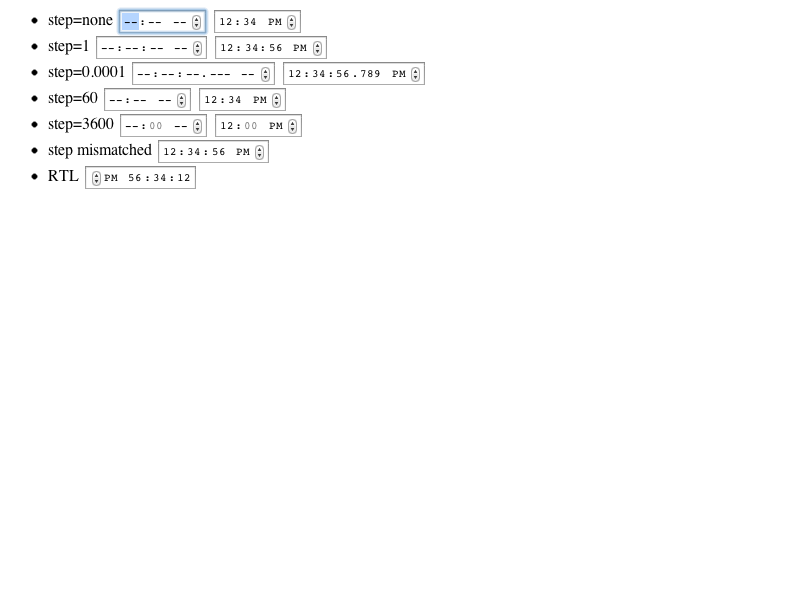
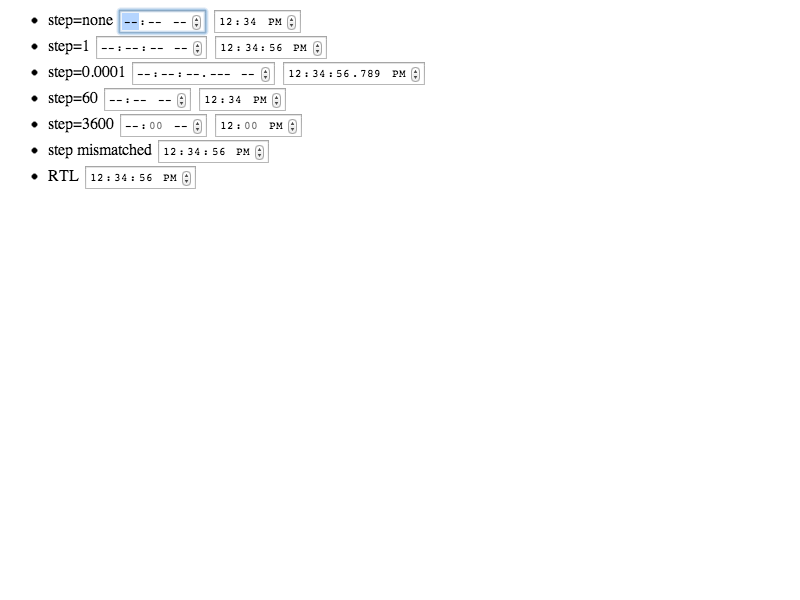
Input elements with multiple fields UI should set appropriate direction for browser locale automatically https://bugs.webkit.org/show_bug.cgi?id=99291
Reviewed by Hajime Morita.

Source/WebCore:

Input elemnts with multiple fields UI ignores HTML dir attribute or CSS
direction property, and their direction should be decided by the browser
locale. If the browser locale is a RTL language, date/time input fields
show formats/digits for the RTL language. The layout should be always
RTL regardless of the direction in such case.

Test: fast/forms/date-multiple-fields/date-multiple-fields-appearance-l10n.html

* html/BaseMultipleFieldsDateAndTimeInputType.cpp:
(WebCore::BaseMultipleFieldsDateAndTimeInputType::updateInnerTextValue):
Set approriate dir attribute value to the child element of the UA shadow root.

LayoutTests:

* fast/forms/date-multiple-fields/date-multiple-fields-appearance-l10n.html:
Added. We can confirm ar-eg and he-il have RTL layout.
* fast/forms/date-multiple-fields/date-multiple-fields-appearance-l10n-expected.txt: Added.
* platform/chromium-mac/fast/forms/date-multiple-fields/date-multiple-fields-appearance-l10n-expected.png: Added.

* fast/forms/date-multiple-fields/date-multiple-fields-keyboard-events-expected.txt:
* fast/forms/date-multiple-fields/date-multiple-fields-keyboard-events.html:
- Enable the lang-attribute-aware-form-control-UI feature.
- Set lang=he-il instead of dir=rtl because dir=rtl is ignored.
* fast/forms/month-multiple-fields/month-multiple-fields-keyboard-events.html: Ditto.
* fast/forms/time-multiple-fields/time-multiple-fields-keyboard-events.html: Ditto.
[…]

diff --git a/LayoutTests/fast/forms/date-multiple-fields/date-multiple-fields-keyboard-events.html b/LayoutTests/fast/forms/date-multiple-fields/date-multiple-fields-keyboard-events.html
@@ -22,6 +22,8 @@ Test following keys:
 <div id="console"></div>
 <script>
 description('Multiple fields UI of month input type with keyboard events');
+if (window.internals)
+    internals.settings.setLangAttributeAwareFormControlUIEnabled(true);
 var input = document.getElementById('input');
 
 function keyDown(key, modifiers)
@@ -187,16 +189,20 @@ keyDown('rightArrow'); // -> 12/[01]/2012
 keyDown('2'); //          -> 12/[02]/2012
 shouldBeEqualToString('input.value', '2012-12-02');
 
+// The tests in the following block fail on platforms without the
+// lang-attribute-aware-form-control-UI feature.
+input.setAttribute("lang", "he-il");
 beginTest('RTL Left/Right keys', '2012-09-28');
-input.setAttribute("dir", "rtl"); // -> 2012/28/[09]
-keyDown('1'); //          -> 2012/28/[01]
-shouldBeEqualToString('input.value', '2012-01-28');
-keyDown('leftArrow'); //  -> 2012/[28]/01
-keyDown('2'); //          -> 2012/[02]/01
-shouldBeEqualToString('input.value', '2012-01-02');
-keyDown('rightArrow'); // -> 2012/02/[01]
-keyDown('3'); //          -> 2012/02/[03]
-shouldBeEqualToString('input.value', '2012-03-02');
+// 2012/09/[28]
+keyDown('1'); //          -> 2012/09/[01]
+shouldBeEqualToString('input.value', '2012-09-01');
+keyDown('leftArrow'); //  -> 2012/[09]/01
+keyDown('2'); //          -> [2012]/02/01
+shouldBeEqualToString('input.value', '2012-02-01');
+keyDown('rightArrow'); // -> 2012/[02]/01
+keyDown('3'); //          -> [2012]/03/01
+shouldBeEqualToString('input.value', '2012-03-01');
+input.removeAttribute("lang");
 
 beginTest('Disabled/readonly', '2012-10-08');
 input.disabled = true;

diff --git a/LayoutTests/fast/forms/time-multiple-fields/time-multiple-fields-keyboard-events.html b/LayoutTests/fast/forms/time-multiple-fields/time-multiple-fields-keyboard-events.html
@@ -22,6 +22,8 @@ Test following keys:
 <div id="console"></div>
 <script>
 description("Multiple fields UI of time input type with keyboard events");
+if (window.internals)
+    internals.settings.setLangAttributeAwareFormControlUIEnabled(true);
 var input = document.getElementById("input");
 
 function keyDown(key, modifiers)
@@ -162,16 +164,19 @@ keyDown('leftArrow');
 keyDown('2');
 shouldBeEqualToString('input.value', '12:02:56');
 
+// The tests in the following block fail on platforms without the
+// lang-attribute-aware-form-control-UI feature.
+input.setAttribute("lang", "he-il");
 beginTest('RTL Left/Right keys', '04:56');
-input.setAttribute("dir", "rtl");
-keyDown('1');
+keyDown('1'); //          -> 56:[01]
 shouldBeEqualToString('input.value', '01:56');
-keyDown('leftArrow');
-keyDown('2');
+keyDown('leftArrow'); //  -> [56]:01
+keyDown('2'); //          -> [02]:01
 shouldBeEqualToString('input.value', '01:02');
-keyDown('rightArrow');
-keyDown('3');
+keyDown('rightArrow'); // -> 02:[01]
+keyDown('3'); //          -> 01:[03]
 shouldBeEqualToString('input.value', '03:02');
+input.removeAttribute("lang");
 </script>
 <script src="../../js/resources/js-test-post.js"></script>
 </body>

diff --git a/LayoutTests/fast/forms/date-multiple-fields/date-multiple-fields-appearance-l10n.html b/LayoutTests/fast/forms/date-multiple-fields/date-multiple-fields-appearance-l10n.html
@@ -1,0 +1,46 @@
+<!DOCTYPE html>
+<html>
+<head>
+<meta charset="utf-8">
+<script>
+if (window.internals)
+    internals.settings.setLangAttributeAwareFormControlUIEnabled(true);
+if (window.testRunner)
+    testRunner.dumpAsText(true);
+</script>
+<style>
+dt {
+    float: left;
+    min-width: 5em;
+}
+</style>
+</head>
+<body>
+<dl>
+<dt>ar-eg
+<dd><input type="date" value="2012-12-31" lang="ar-eg">
+<dt>de-de
+<dd><input type="date" value="2012-12-31" lang="de-de">
+<dt>el-gr
+<dd><input type="date" value="2012-12-31" lang="el-gr">
+<dt>en-us
+<dd><input type="date" value="2012-12-31" lang="en-us">
+<dt>fr-fr
+<dd><input type="date" value="2012-12-31" lang="fr-fr">
+<dt>he-il
+<dd><input type="date" value="2012-12-31" lang="he-il">
+<dt>hi-in
+<dd><input type="date" value="2012-12-31" lang="hi-in">
+<dt>ja-jp
+<dd><input type="date" value="2012-12-31" lang="ja-jp">
+<dt>ko-kr
+<dd><input type="date" value="2012-12-31" lang="ko-kr">
+<dt>ru-ru
+<dd><input type="date" value="2012-12-31" lang="ru-ru">
+<dt>zh-tw
+<dd><input type="date" value="2012-12-31" lang="zh-tw">
+<dt>zh-cn
+<dd><input type="date" value="2012-12-31" lang="zh-cn">
+</dl>
+</body>
+</html>

diff --git a/LayoutTests/fast/forms/month-multiple-fields/month-multiple-fields-keyboard-events.html b/LayoutTests/fast/forms/month-multiple-fields/month-multiple-fields-keyboard-events.html
@@ -22,6 +22,8 @@ Test following keys:
 <div id="console"></div>
 <script>
 description("Multiple fields UI of month input type with keyboard events");
+if (window.internals)
+    internals.settings.setLangAttributeAwareFormControlUIEnabled(true);
 var input = document.getElementById("input");
 
 function keyDown(key, modifiers)
@@ -168,8 +170,10 @@ keyDown('rightArrow');
 keyDown('2');
 shouldBeEqualToString('input.value', '0002-12');
 
+// The tests in the following block fail on platforms without the
+// lang-attribute-aware-form-control-UI feature.
+input.setAttribute("lang", "he-il");
 beginTest('RTL Left/Right keys', '2012-09');
-input.setAttribute("dir", "rtl");
 keyDown('1');
 shouldBeEqualToString('input.value', '2012-01');
 keyDown('leftArrow');
@@ -178,6 +182,7 @@ shouldBeEqualToString('input.value', '0002-01');
 keyDown('rightArrow');
 keyDown('3');
 shouldBeEqualToString('input.value', '0002-03');
+input.removeAttribute("lang");
 </script>
 <script src="../../js/resources/js-test-post.js"></script>
 </body>

diff --git a/Source/WebCore/html/BaseMultipleFieldsDateAndTimeInputType.cpp b/Source/WebCore/html/BaseMultipleFieldsDateAndTimeInputType.cpp
@@ -273,6 +273,10 @@ void BaseMultipleFieldsDateAndTimeInputType::updateInnerTextValue()
     if (!m_dateTimeEditElement)
         return;
 
+    AtomicString direction = element()->localizer().isRTL() ? AtomicString("rtl", AtomicString::ConstructFromLiteral) : AtomicString("ltr", AtomicString::ConstructFromLiteral);
+    if (Element* container = firstElementChild(element()->userAgentShadowRoot()))
+        container->setAttribute(HTMLNames::dirAttr, direction);
+
     DateTimeEditElement::LayoutParameters layoutParameters(element()->localizer(), createStepRange(AnyIsDefaultStep));
 
     DateComponents date;
